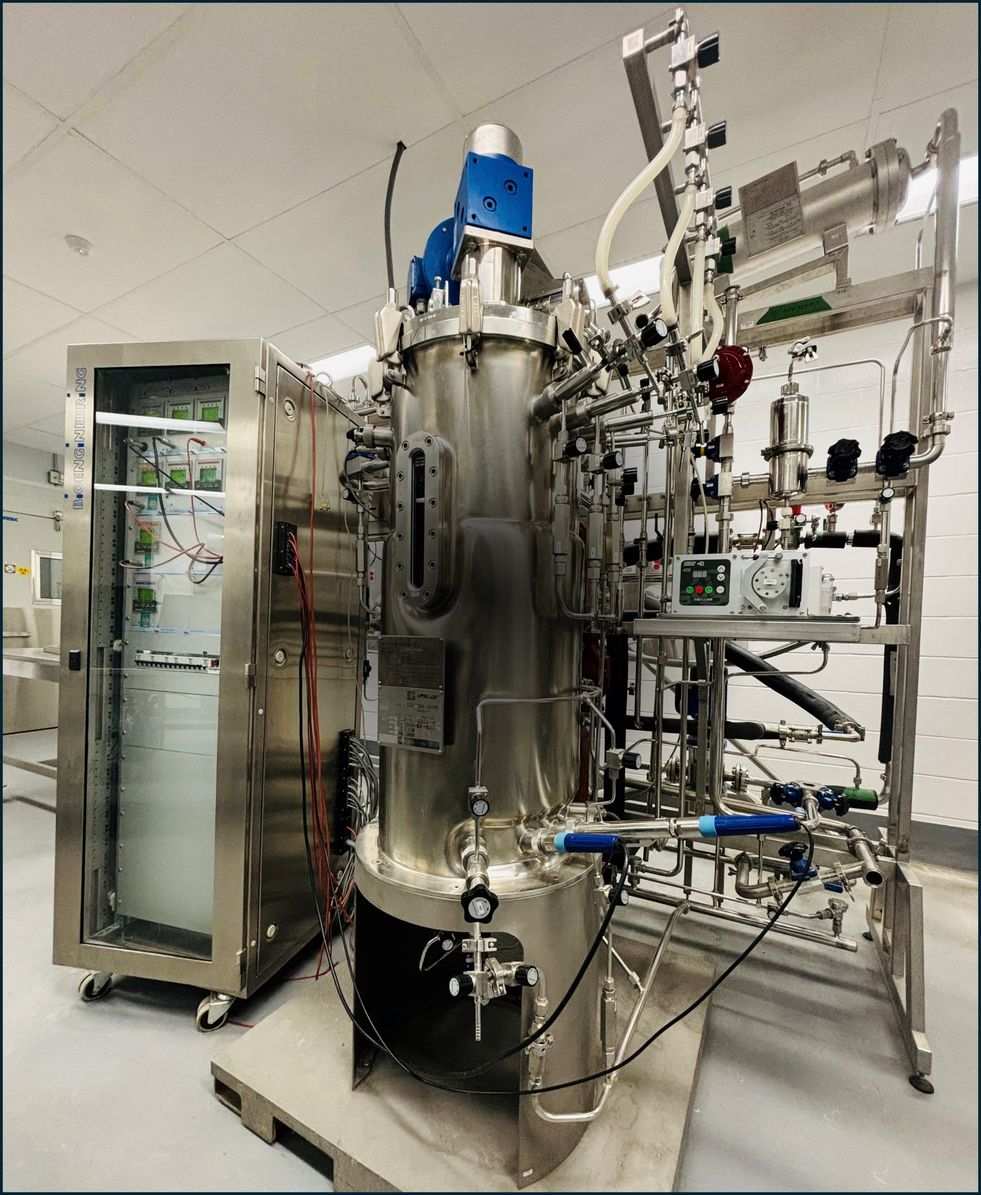
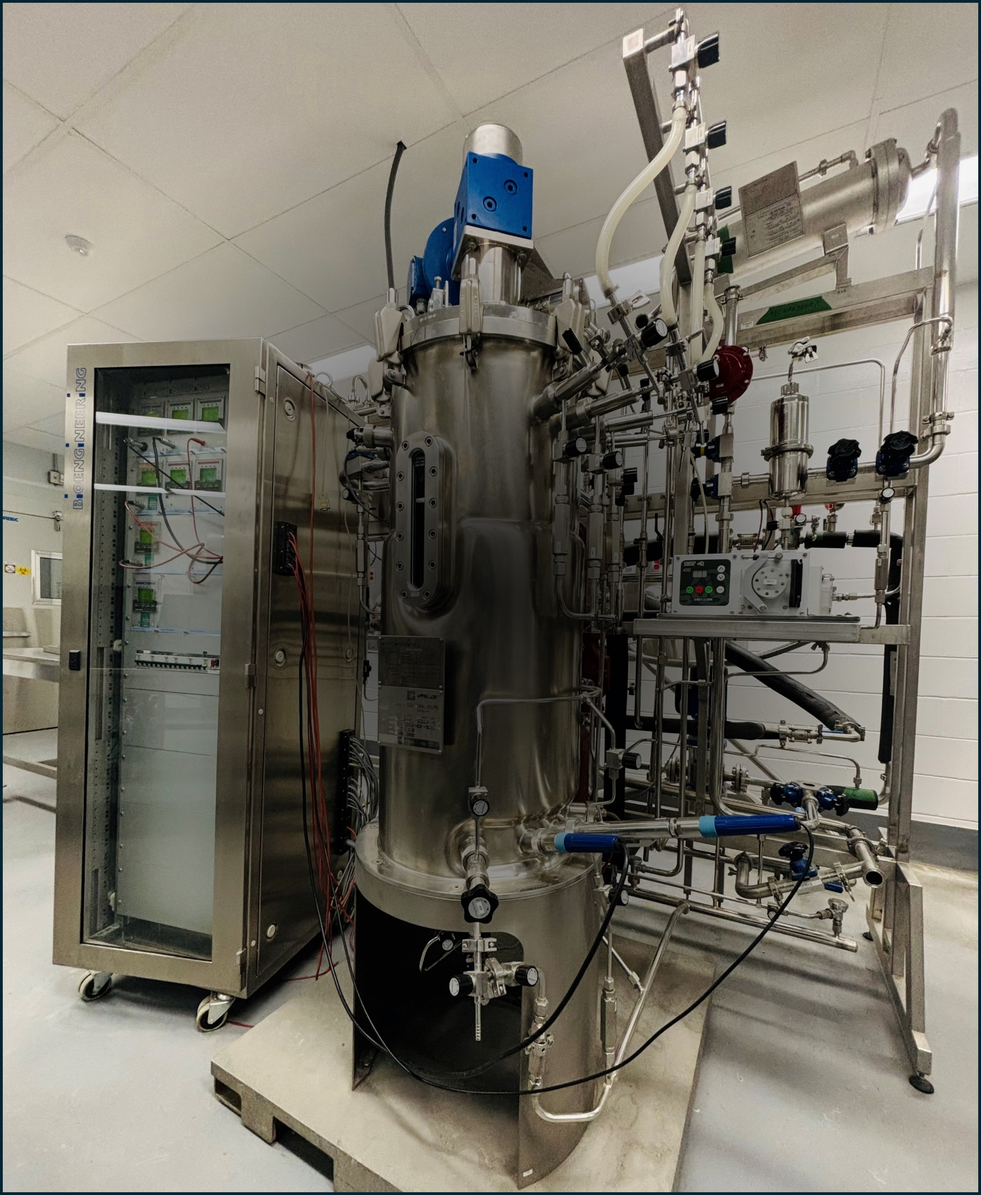
header darker

diff --git a/_site/index.html b/_site/index.html
@@ -478,7 +478,7 @@ possibility to make image size a variable in the future-->
         <div class="call-to-action">
             <h2 id="clientFeatureTitle">Client Feature</h2>
             <hr class="primary" style="border-color: black;">
-            <p class="lead text-center mt-4" id="clientTestimonial">Oh they're so nice. We ♥ Lalit. <i>-You Know Whom</i></p>
+            <p class="lead text-center mt-4" id="clientTestimonial">We ♥ Lalit. <i>-You Know WhMOON</i></p>
             <img src="img/clients/harvest-moon-foods.jpeg" alt="Small Image Description" class="img-fluid mb-3" style="max-width: 33%;">
         </div>
     </div>

diff --git a/_includes/testimonial.html b/_includes/testimonial.html
@@ -17,7 +17,7 @@
         <div class="call-to-action">
             <h2 id="clientFeatureTitle">Client Feature</h2>
             <hr class="primary" style="border-color: black;">
-            <p class="lead text-center mt-4" id="clientTestimonial">Oh they're so nice. We ♥ Lalit. <i>-You Know Whom</i></p>
+            <p class="lead text-center mt-4" id="clientTestimonial">We ♥ Lalit. <i>-You Know WhMOON</i></p>
             <img src="img/clients/harvest-moon-foods.jpeg" alt="Small Image Description" class="img-fluid mb-3" style="max-width: 33%;">
         </div>
     </div>
